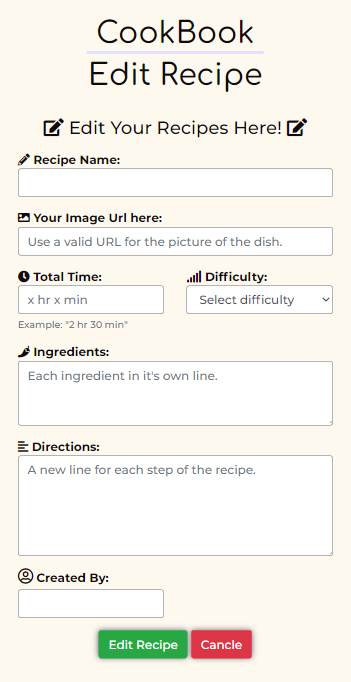
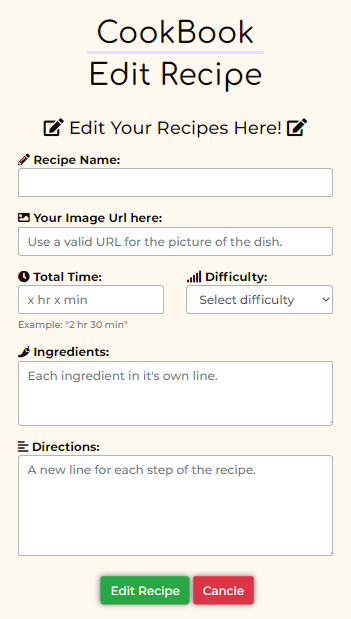
Dev: Updated Layout images, Testing and Bugs

diff --git a/README.md b/README.md
@@ -414,7 +414,7 @@ The recipes page contains:
   
 - a favourite button to add a recipe to the favourite list only available to logged in users 
 
-  ![Favourite Button](Documentation/layout/recipesFav.png)
+  ![Favourite Button](Documentation/layout/fav_recipes.png)
 
 - a edit and delete button only available for the Admin
 
@@ -599,11 +599,16 @@ Allowing users to:
 [Back to Table of contents](#table-of-contents)
 
 
-Testing
+Testing 
 ======
 
 ### **TESTIN.md** ###
 Testing information can be found in a separate [TESTING.md](Documentation/TESTING.md).
+
+Bugs
+======
+
+Some informations of bugs and bugs fix can be found in [TESTING.md](Documentation/TESTING.md).
 
 ### **Mentor Session** ###
 **Style Changes**
@@ -614,15 +619,34 @@ Testing information can be found in a separate [TESTING.md](Documentation/TESTIN
 - Product Back Cards
   - remove the stylish line 
   - no shadow style for button
+- Default background colour for Favourite Button
 
 **HTML File Changes**
+- Recipe default image for recipes.html and view_recipe.html
+- Add query message for search result for recipes.html and view_recipe.html
+- add query message to search result
 
 **Back End Changes**
-
-Bugs
-======
-
-All information of bug and bugs fix can be found in a separate [TESTING.md](Documentation/TESTING.md).
+- optimizing random Products funtion
+- change-password in seperate function
+- add query to html
+- add abort
+- add vriable ADMIN_USER_NAME = "admin"
+- Profile
+  - optimized profile def
+  - bug fix favourite recipes + remove button
+  - bug fix Admin edit functionality for all recipes 
+- Recipe
+  - add try: get single recipe exept: redirect to 404 error 
+- Edit Recipe
+  - bug fix Admin edit functionality for all recipes
+  - add try: get single recipe exept: redirect to 404 error
+- optimized delete functionality
+- favourite functionality
+  - optimized function
+  - bug fix favourite show, add, remove functionality
+- remove favourite functionality
+  - bug fix remove functionality
 
 [Back to Table of contents](#table-of-contents)
 
